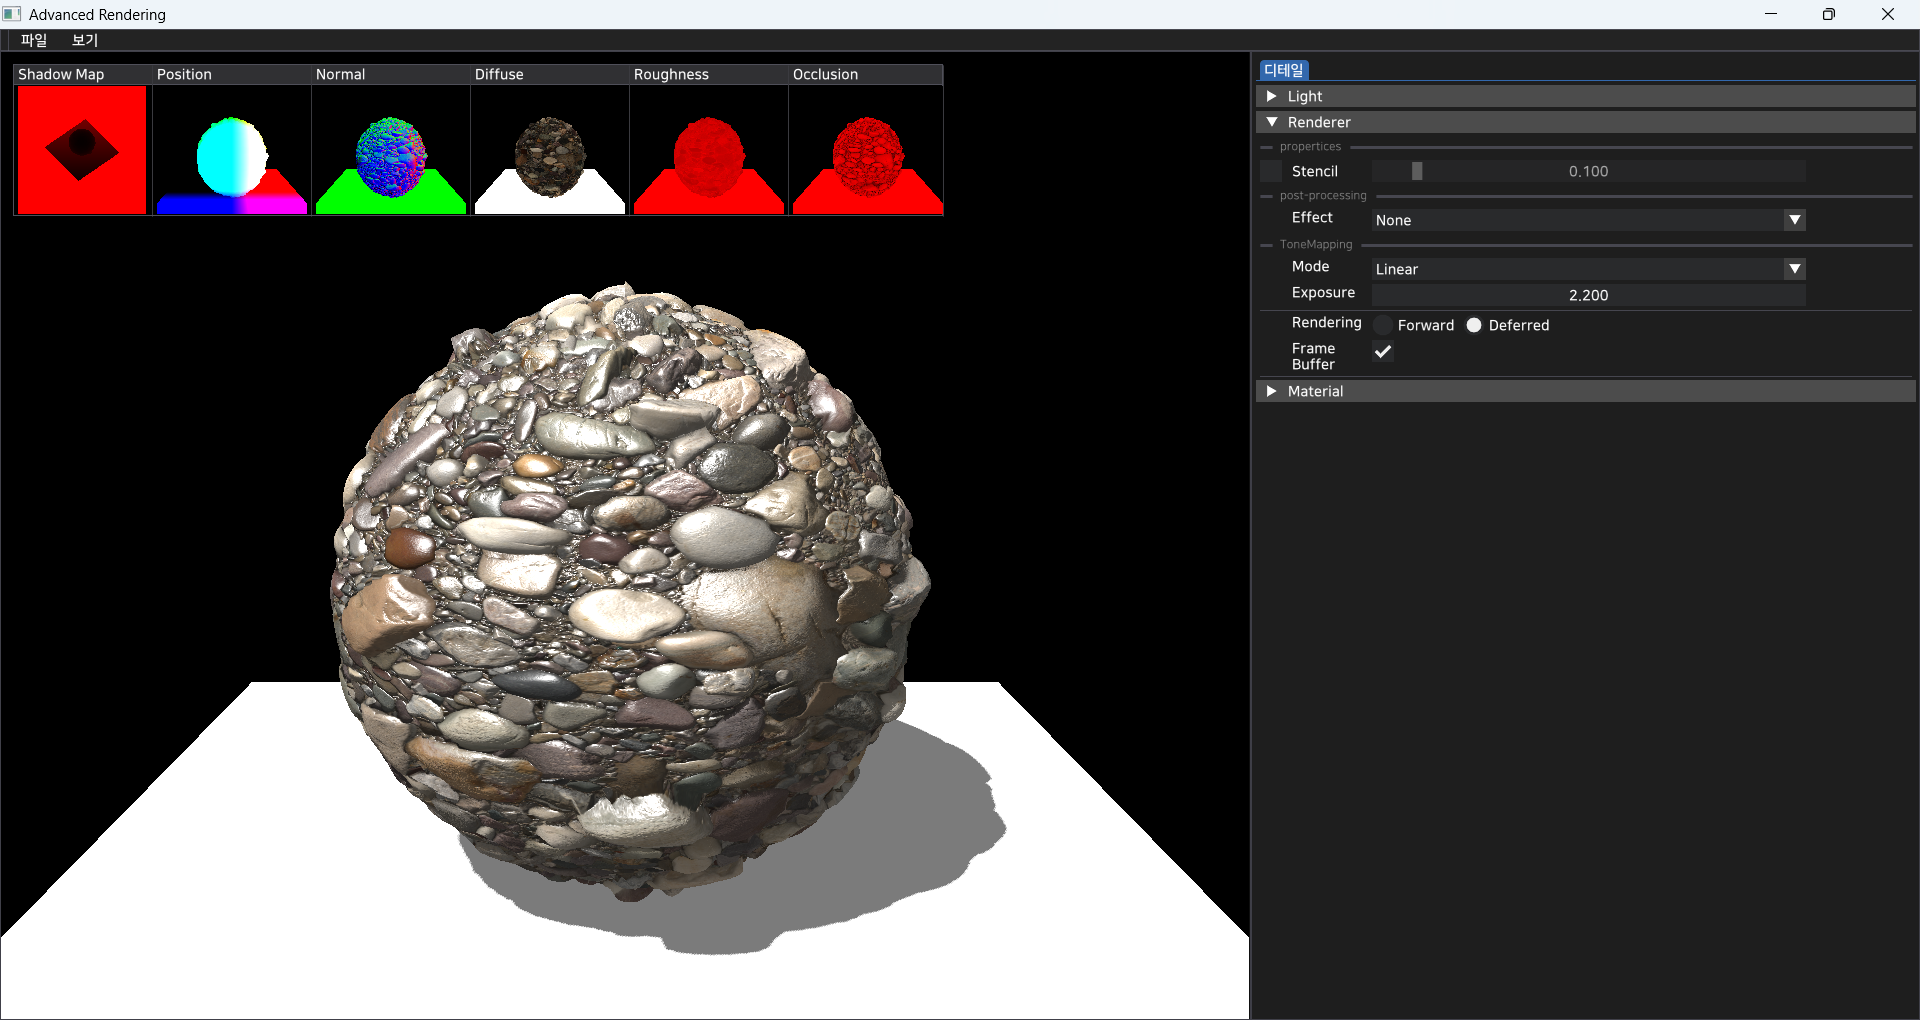
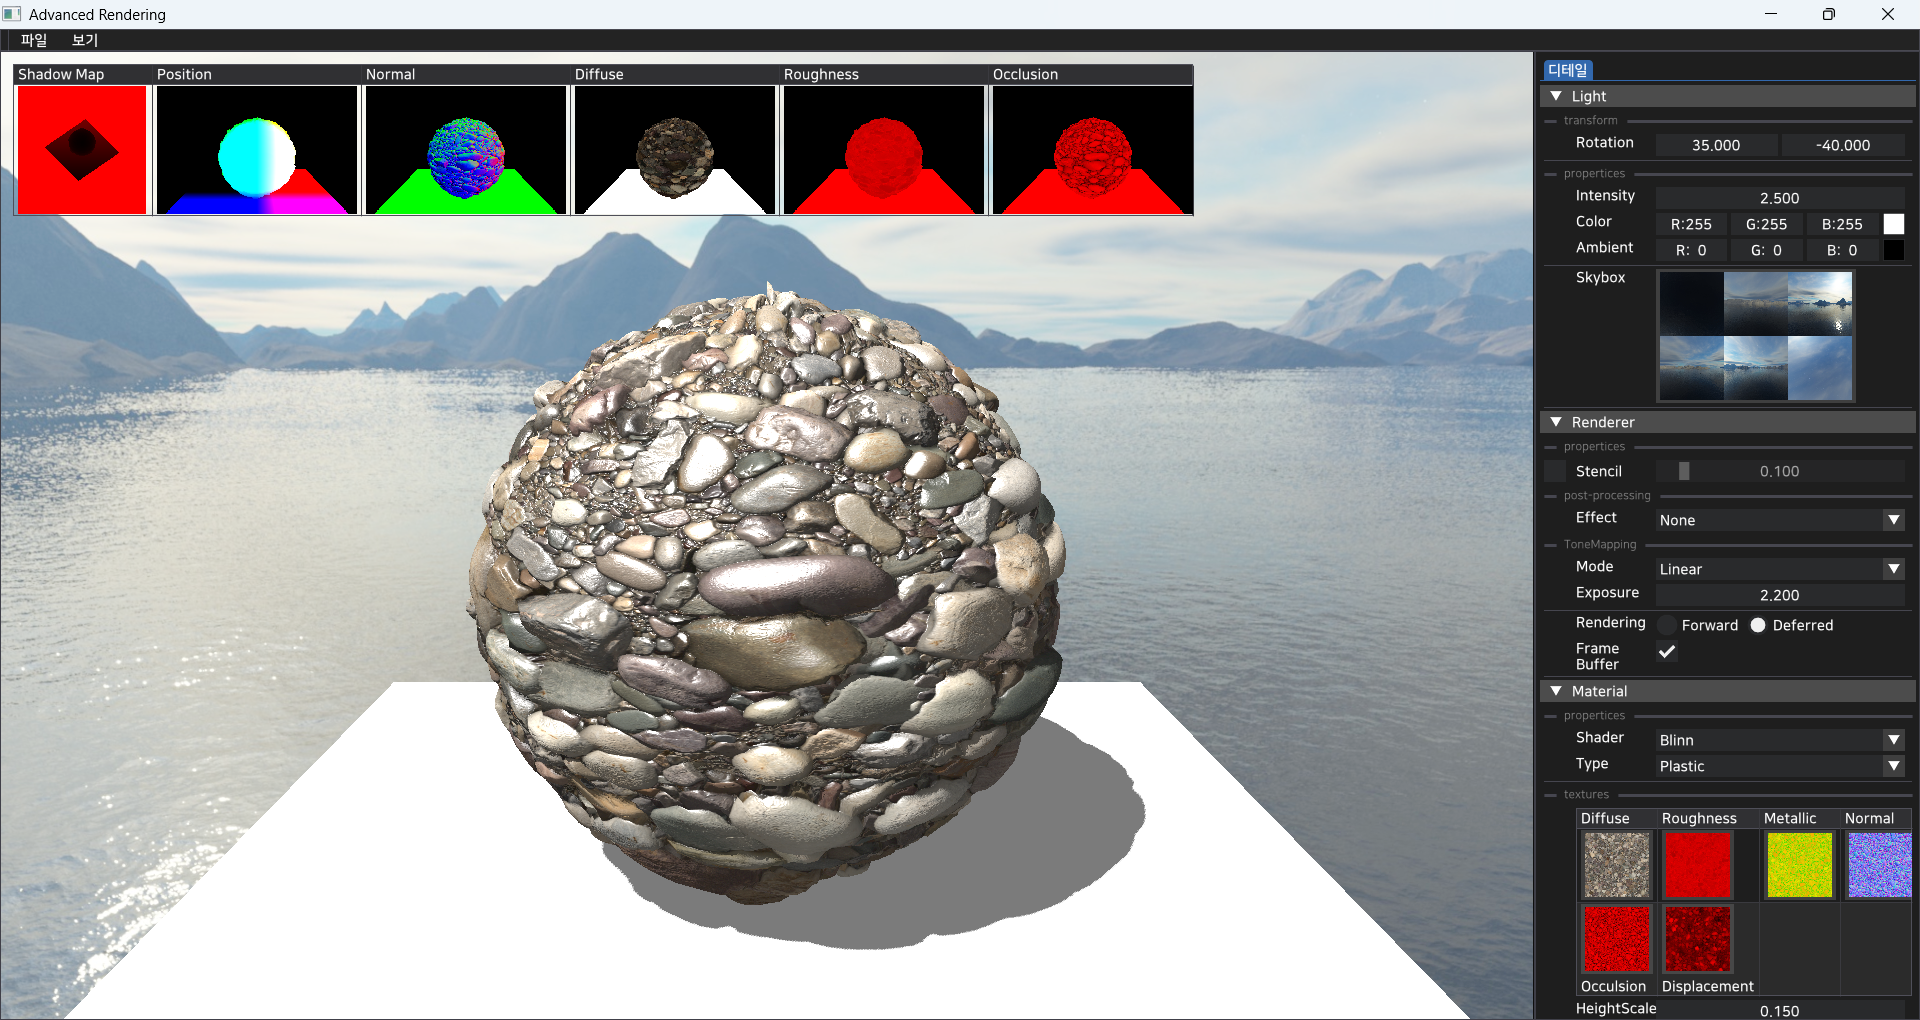
중간 마무리

diff --git a/src/core/private/editor.cpp b/src/core/private/editor.cpp
@@ -399,29 +399,29 @@ void Editor::CreateSceneLayout()
                 ImGuiWindowFlags_NoSavedSettings|
                 ImGuiWindowFlags_NoBackground |
                 ImGuiWindowFlags_NoDecoration);
-        if(ImGui::BeginTable("framebufferTable", 6, ImGuiTableFlags_RowBg|ImGuiTableFlags_Resizable|ImGuiTableFlags_Borders, ImVec2(930, 0)))
+        if(ImGui::BeginTable("framebufferTable", 6, ImGuiTableFlags_RowBg|ImGuiTableFlags_Resizable|ImGuiTableFlags_Borders, ImVec2(1180, 0)))
         {
             ImGui::TableSetupColumn("Shadow Map", ImGuiTableColumnFlags_WidthFixed, 130.0f);
-            ImGui::TableSetupColumn("Position", ImGuiTableColumnFlags_WidthFixed, 150.0f);
-            ImGui::TableSetupColumn("Normal", ImGuiTableColumnFlags_WidthFixed, 150.0f);
-            ImGui::TableSetupColumn("Diffuse", ImGuiTableColumnFlags_WidthFixed, 150.0f);
-            ImGui::TableSetupColumn("Roughness", ImGuiTableColumnFlags_WidthFixed, 150.0f);
-            ImGui::TableSetupColumn("Occlusion", ImGuiTableColumnFlags_WidthFixed, 150.0f);
+            ImGui::TableSetupColumn("Position", ImGuiTableColumnFlags_WidthFixed, 200.0f);
+            ImGui::TableSetupColumn("Normal", ImGuiTableColumnFlags_WidthFixed, 200.0f);
+            ImGui::TableSetupColumn("Diffuse", ImGuiTableColumnFlags_WidthFixed, 200.0f);
+            ImGui::TableSetupColumn("Roughness", ImGuiTableColumnFlags_WidthFixed, 200.0f);
+            ImGui::TableSetupColumn("Occlusion", ImGuiTableColumnFlags_WidthFixed, 200.0f);
 
             ImGui::TableHeadersRow();
             ImGui::TableNextRow();
             ImGui::TableSetColumnIndex(0);
             ImGui::Image(Context::GetContext()->renderer->GetShadowBuffer(), ImVec2(128, 128), ImVec2(0, 1), ImVec2(1, 0));
             ImGui::TableSetColumnIndex(1);
-            ImGui::Image(Context::GetContext()->renderer->GetGBufferPosition(), ImVec2(150, 128), ImVec2(0, 1), ImVec2(1, 0));
+            ImGui::Image(Context::GetContext()->renderer->GetGBufferPosition(), ImVec2(200, 128), ImVec2(0, 1), ImVec2(1, 0));
             ImGui::TableSetColumnIndex(2);
-            ImGui::Image(Context::GetContext()->renderer->GetGBufferNormal(), ImVec2(150, 128), ImVec2(0, 1), ImVec2(1, 0));
+            ImGui::Image(Context::GetContext()->renderer->GetGBufferNormal(), ImVec2(200, 128), ImVec2(0, 1), ImVec2(1, 0));
             ImGui::TableSetColumnIndex(3);
-            ImGui::Image(Context::GetContext()->renderer->GetGBufferDiffuse(), ImVec2(150, 128), ImVec2(0, 1), ImVec2(1, 0));
+            ImGui::Image(Context::GetContext()->renderer->GetGBufferDiffuse(), ImVec2(200, 128), ImVec2(0, 1), ImVec2(1, 0));
             ImGui::TableSetColumnIndex(4);
-            ImGui::Image(Context::GetContext()->renderer->GetGBufferRoughness(), ImVec2(150, 128), ImVec2(0, 1), ImVec2(1, 0));
+            ImGui::Image(Context::GetContext()->renderer->GetGBufferRoughness(), ImVec2(200, 128), ImVec2(0, 1), ImVec2(1, 0));
             ImGui::TableSetColumnIndex(5);
-            ImGui::Image(Context::GetContext()->renderer->GetGBufferOcclusion(), ImVec2(150, 128), ImVec2(0, 1), ImVec2(1, 0));
+            ImGui::Image(Context::GetContext()->renderer->GetGBufferOcclusion(), ImVec2(200, 128), ImVec2(0, 1), ImVec2(1, 0));
             ImGui::EndTable();
         }
         //ImGui::GetForegroundDrawList()->AddImage(Context::GetContext()->renderer->GetShadowBuffer(), scenePos , ImVec2(256+scenePos.x, 256+scenePos.y), ImVec2(0, 1), ImVec2(1, 0));

diff --git a/src/renderer/private/renderer.cpp b/src/renderer/private/renderer.cpp
@@ -235,7 +235,6 @@ void OpenGLRenderer::Draw()
     glBufferSubData(GL_UNIFORM_BUFFER, 0, sizeof(glm::mat4), glm::value_ptr(lightComponent->GetViewMatrix()));
     glBufferSubData(GL_UNIFORM_BUFFER, sizeof(glm::mat4), sizeof(glm::mat4), glm::value_ptr(lightComponent->GetProjectionMatrix()));
     glBindBuffer(GL_UNIFORM_BUFFER, 0);
-
     //Shadow map framebuffer
     glViewport(0,0,2048,2048);
     glBindFramebuffer(GL_FRAMEBUFFER, shadowFrameBuffer);
@@ -398,10 +397,8 @@ void OpenGLRenderer::Draw()
         deferredShader->EndProgam();
         glBindTexture(GL_TEXTURE_2D, 0);
         glEnable(GL_DEPTH_TEST);
-        glDepthFunc(GL_LEQUAL);
-        
-        LightComponent* light = Context::GetContext()->world->GetCurrentLight()->GetComponent<LightComponent>();
-        light->Draw();
+        glDepthFunc(GL_LEQUAL);        
+        lightComponent->Draw();
         glBindFramebuffer(GL_FRAMEBUFFER, 0);
         finalColor = dcbo;
     }else
